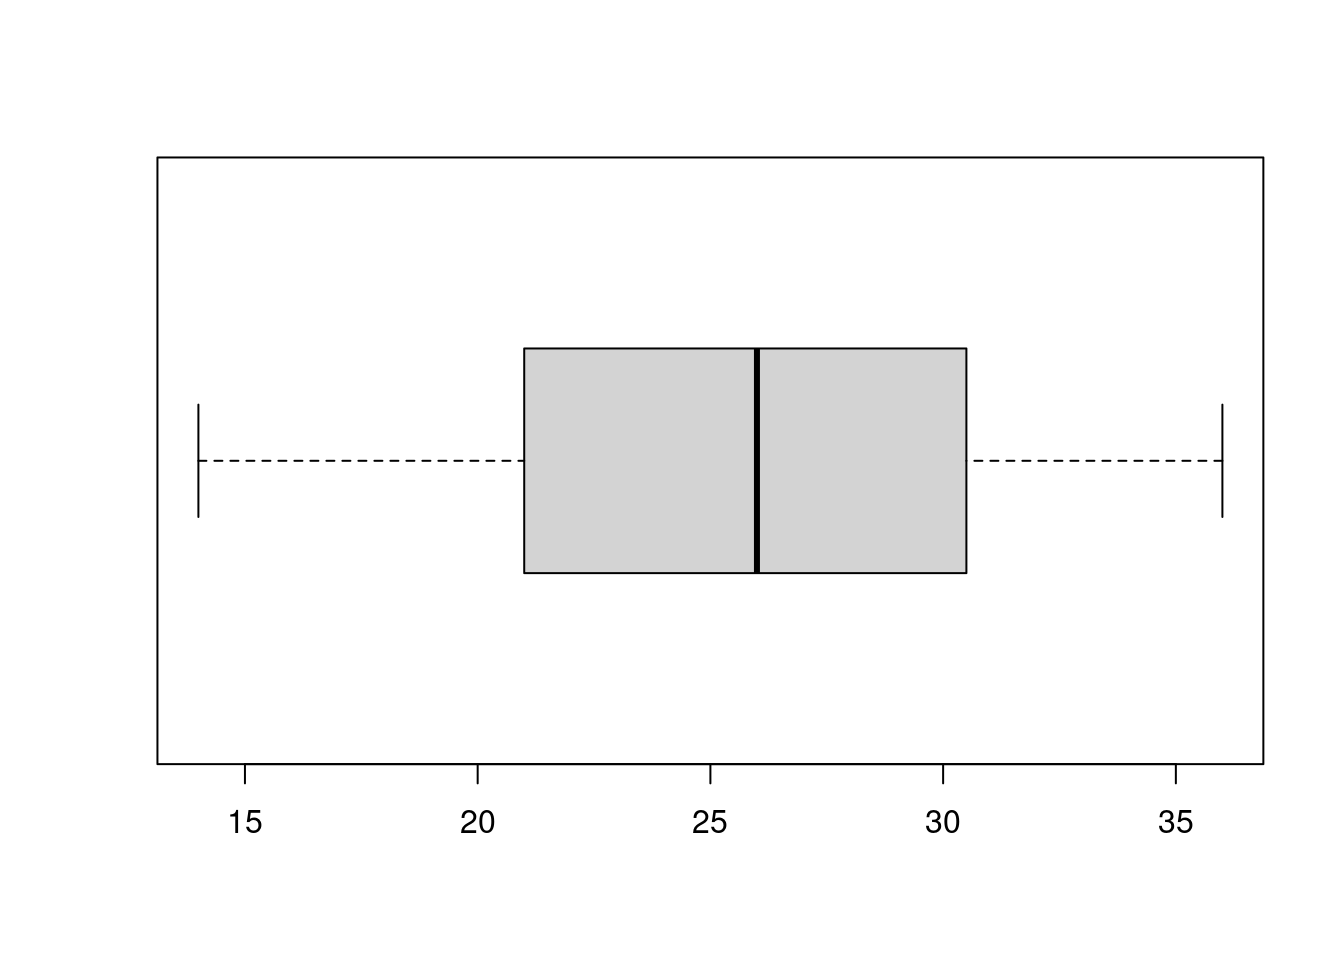
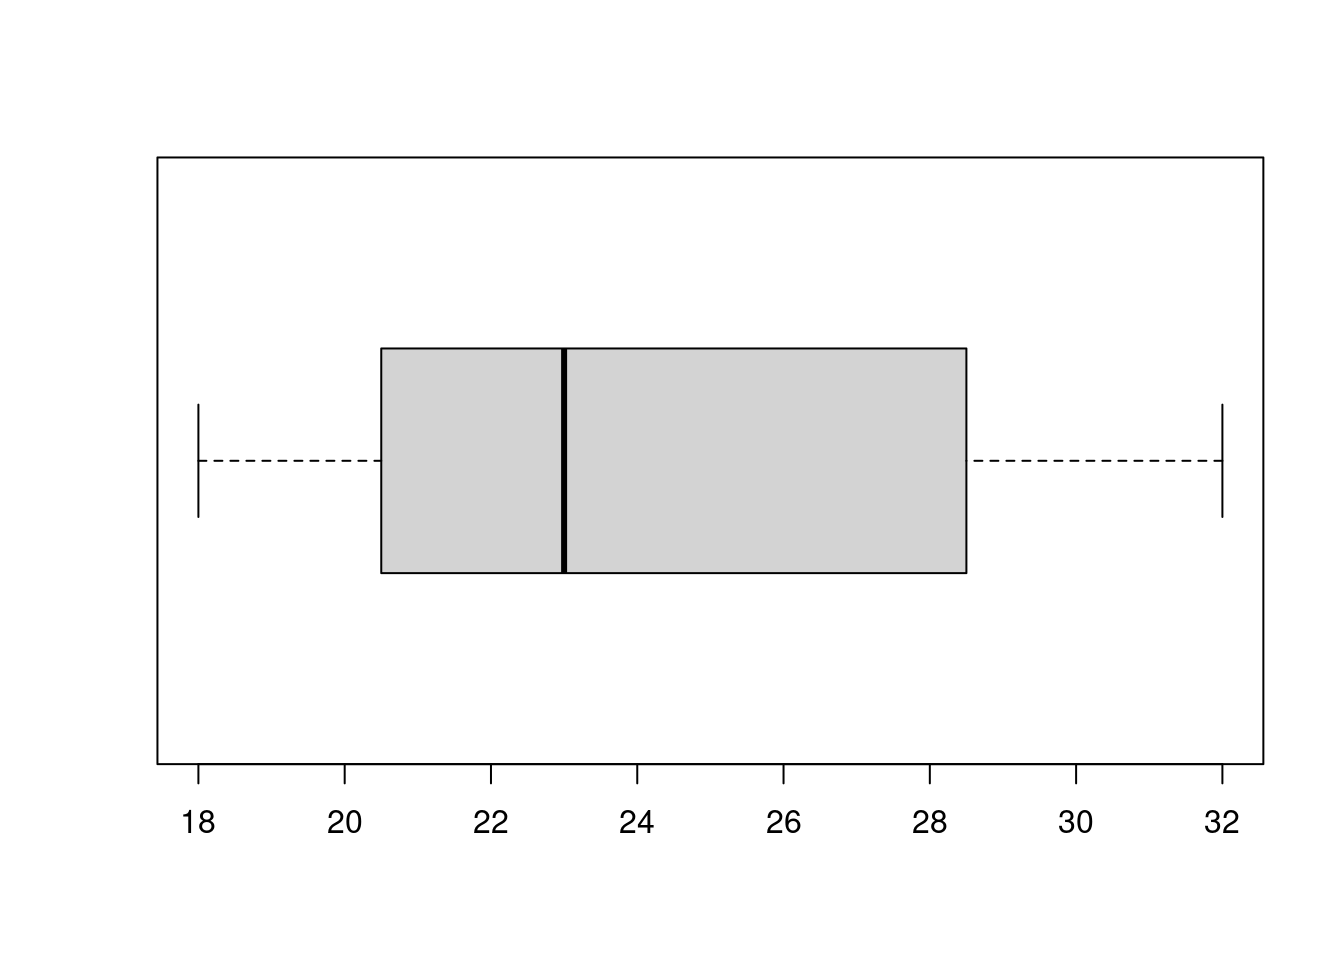
Updates to Chapter 3

diff --git a/_book/what-is-statistics.html b/_book/what-is-statistics.html
@@ -168,13 +168,17 @@ code span.wa { color: #60a0b0; font-weight: bold; font-style: italic; } /* Warni
 <li class="chapter" data-level="3.2.1" data-path="what-is-statistics.html"><a href="what-is-statistics.html#histograms"><i class="fa fa-check"></i><b>3.2.1</b> Histograms</a></li>
 <li class="chapter" data-level="3.2.2" data-path="what-is-statistics.html"><a href="what-is-statistics.html#boxplot"><i class="fa fa-check"></i><b>3.2.2</b> BoxPlot</a></li>
 </ul></li>
-<li class="chapter" data-level="3.3" data-path="what-is-statistics.html"><a href="what-is-statistics.html#numerical-versus-categorical-data"><i class="fa fa-check"></i><b>3.3</b> Numerical versus Categorical Data</a>
+<li class="chapter" data-level="3.3" data-path="what-is-statistics.html"><a href="what-is-statistics.html#categorical-data-example"><i class="fa fa-check"></i><b>3.3</b> Categorical Data Example</a>
 <ul>
-<li class="chapter" data-level="3.3.1" data-path="what-is-statistics.html"><a href="what-is-statistics.html#list-of-features"><i class="fa fa-check"></i><b>3.3.1</b> List of features</a></li>
-<li class="chapter" data-level="3.3.2" data-path="what-is-statistics.html"><a href="what-is-statistics.html#frequencies"><i class="fa fa-check"></i><b>3.3.2</b> Frequencies</a></li>
-<li class="chapter" data-level="3.3.3" data-path="what-is-statistics.html"><a href="what-is-statistics.html#proportions"><i class="fa fa-check"></i><b>3.3.3</b> Proportions</a></li>
-<li class="chapter" data-level="3.3.4" data-path="what-is-statistics.html"><a href="what-is-statistics.html#charts"><i class="fa fa-check"></i><b>3.3.4</b> Charts</a></li>
+<li class="chapter" data-level="3.3.1" data-path="what-is-statistics.html"><a href="what-is-statistics.html#grades-1"><i class="fa fa-check"></i><b>3.3.1</b> Grades</a></li>
+<li class="chapter" data-level="3.3.2" data-path="what-is-statistics.html"><a href="what-is-statistics.html#example-of-categorical-data"><i class="fa fa-check"></i><b>3.3.2</b> Example of Categorical Data</a></li>
+<li class="chapter" data-level="3.3.3" data-path="what-is-statistics.html"><a href="what-is-statistics.html#list-of-features"><i class="fa fa-check"></i><b>3.3.3</b> List of features</a></li>
+<li class="chapter" data-level="3.3.4" data-path="what-is-statistics.html"><a href="what-is-statistics.html#frequencies"><i class="fa fa-check"></i><b>3.3.4</b> Frequencies</a></li>
+<li class="chapter" data-level="3.3.5" data-path="what-is-statistics.html"><a href="what-is-statistics.html#proportions"><i class="fa fa-check"></i><b>3.3.5</b> Proportions</a></li>
+<li class="chapter" data-level="3.3.6" data-path="what-is-statistics.html"><a href="what-is-statistics.html#charts"><i class="fa fa-check"></i><b>3.3.6</b> Charts</a></li>
 </ul></li>
+<li class="chapter" data-level="3.4" data-path="what-is-statistics.html"><a href="what-is-statistics.html#exploratory-versus-confirmatory-analysis"><i class="fa fa-check"></i><b>3.4</b> Exploratory versus Confirmatory Analysis</a></li>
+<li class="chapter" data-level="3.5" data-path="what-is-statistics.html"><a href="what-is-statistics.html#correlations-and-predictions"><i class="fa fa-check"></i><b>3.5</b> Correlations and Predictions</a></li>
 </ul></li>
 </ul>
 
@@ -264,7 +268,7 @@ While I am collecting this data you can reflect on this funny musing. I grew up 
 <span id="cb3-5"><a href="what-is-statistics.html#cb3-5" aria-hidden="true" tabindex="-1"></a><span class="co"># students &lt;- {} </span></span>
 <span id="cb3-6"><a href="what-is-statistics.html#cb3-6" aria-hidden="true" tabindex="-1"></a></span>
 <span id="cb3-7"><a href="what-is-statistics.html#cb3-7" aria-hidden="true" tabindex="-1"></a>students</span></code></pre></div>
-<pre><code>##  [1] 31 26 19 21 34 14 30 19 26 33 25 21 36 27 14 31 26 23 29 24</code></pre>
+<pre><code>##  [1] 32 20 22 25 18 20 23 25 25 30 31 20 21 28 29 19 23 23 22 30</code></pre>
 <p><em>R Notes</em>: lists in R are enclosed in <em>curly braces</em> and each member of the list is separated by a <em>semi-colon</em> or a space; note I think leaving the space is bad practice and recommend not using that feature. In this case our list is a collection of integers. Lists can more generally be numbers or strings or even lists of lists.</p>
 <p>Comments in commands start with <em>hash symbols</em>.</p>
 <p>Another syntax note: R uses both = and &lt;- for assignment though they have slightly different meanings. They both work as you would expect, however &lt;- has some nice positives in the detailed differences and it is worth getting into the habit of using it.</p>
@@ -274,11 +278,11 @@ While I am collecting this data you can reflect on this funny musing. I grew up 
 <p>To get started we can use <em>summary</em> to get an overview of what our list of student enrollments look like. Review the meaning of each of these.</p>
 <div class="sourceCode" id="cb5"><pre class="sourceCode r"><code class="sourceCode r"><span id="cb5-1"><a href="what-is-statistics.html#cb5-1" aria-hidden="true" tabindex="-1"></a><span class="fu">summary</span>(students)</span></code></pre></div>
 <pre><code>##    Min. 1st Qu.  Median    Mean 3rd Qu.    Max. 
-##   14.00   21.00   26.00   25.45   30.25   36.00</code></pre>
+##   18.00   20.75   23.00   24.30   28.25   32.00</code></pre>
 <p>Mean and Median are <em>measures of center</em>, while the quartiles are <em>measures of spread</em>. One measure of spread missing is the variance or its square root standard deviation:</p>
 <div class="sourceCode" id="cb7"><pre class="sourceCode r"><code class="sourceCode r"><span id="cb7-1"><a href="what-is-statistics.html#cb7-1" aria-hidden="true" tabindex="-1"></a><span class="fu">var</span>(students); <span class="fu">sqrt</span>(<span class="fu">var</span>(students))</span></code></pre></div>
-<pre><code>## [1] 38.57632</code></pre>
-<pre><code>## [1] 6.210983</code></pre>
+<pre><code>## [1] 18.74737</code></pre>
+<pre><code>## [1] 4.329823</code></pre>
 <p>The variance is computed by taking the sum of the square differences between the data and the mean and then dividing that by number of items minus one; we will explain why this is what we divide by later in class:
 <span class="math display">\[ S = \frac{1}{n-1} \sum_{j=1}^n (y_j - \bar{y} )^2 \]</span> where <span class="math inline">\(\bar{y}\)</span> is the mean of the sample made up of the <span class="math inline">\(\{ y_1, y_2, \dots, y_n \}\)</span>.</p>
 <p>In the code blocks below I will add some comments about what we are doing:</p>
@@ -288,17 +292,16 @@ While I am collecting this data you can reflect on this funny musing. I grew up 
 <span id="cb10-4"><a href="what-is-statistics.html#cb10-4" aria-hidden="true" tabindex="-1"></a></span>
 <span id="cb10-5"><a href="what-is-statistics.html#cb10-5" aria-hidden="true" tabindex="-1"></a><span class="co"># R can then do the arithmetic and when we combine a list of numbers with a single number and square it, it knows what we mean.</span></span>
 <span id="cb10-6"><a href="what-is-statistics.html#cb10-6" aria-hidden="true" tabindex="-1"></a>(students <span class="sc">-</span> ybar)<span class="sc">^</span><span class="dv">2</span></span></code></pre></div>
-<pre><code>##  [1]  30.8025   0.3025  41.6025  19.8025  73.1025 131.1025  20.7025  41.6025
-##  [9]   0.3025  57.0025   0.2025  19.8025 111.3025   2.4025 131.1025  30.8025
-## [17]   0.3025   6.0025  12.6025   2.1025</code></pre>
+<pre><code>##  [1] 59.29 18.49  5.29  0.49 39.69 18.49  1.69  0.49  0.49 32.49 44.89 18.49
+## [13] 10.89 13.69 22.09 28.09  1.69  1.69  5.29 32.49</code></pre>
 <div class="sourceCode" id="cb12"><pre class="sourceCode r"><code class="sourceCode r"><span id="cb12-1"><a href="what-is-statistics.html#cb12-1" aria-hidden="true" tabindex="-1"></a><span class="co"># Then as we said, we sum over all of these and then divide by the number of them</span></span>
 <span id="cb12-2"><a href="what-is-statistics.html#cb12-2" aria-hidden="true" tabindex="-1"></a><span class="co"># minus 1</span></span>
 <span id="cb12-3"><a href="what-is-statistics.html#cb12-3" aria-hidden="true" tabindex="-1"></a></span>
 <span id="cb12-4"><a href="what-is-statistics.html#cb12-4" aria-hidden="true" tabindex="-1"></a><span class="fu">sum</span>( (students <span class="sc">-</span> ybar)<span class="sc">^</span><span class="dv">2</span> ) <span class="sc">/</span> ( <span class="fu">length</span>(students) <span class="sc">-</span> <span class="dv">1</span> )</span></code></pre></div>
-<pre><code>## [1] 38.57632</code></pre>
+<pre><code>## [1] 18.74737</code></pre>
 <p>Note why we compute variance in this way. We are trying to understand how far the data moves from the mean <span class="math inline">\(\bar{y}\)</span>. However we can’t just sum over the differences as that will just add up to zero:</p>
 <div class="sourceCode" id="cb14"><pre class="sourceCode r"><code class="sourceCode r"><span id="cb14-1"><a href="what-is-statistics.html#cb14-1" aria-hidden="true" tabindex="-1"></a><span class="fu">sum</span>(students <span class="sc">-</span> ybar )</span></code></pre></div>
-<pre><code>## [1] 1.421085e-14</code></pre>
+<pre><code>## [1] -1.421085e-14</code></pre>
 <p>We have choices though, we could sum over the absolute value and indeed that does give us a notion of spread. However the advantage of summing over the squares is that it brings in tools from Calculus that work with quadratic expressions but not with absolute value expressions. We then intend to take an average. For reasons we will justify later, it turns out the correct average to do is to divide by the size of our sample minus 1: <span class="math inline">\(n-1\)</span> is called the degrees of freedom (roughly computing <span class="math inline">\(\bar{y}\)</span> from the sample has used up one degree of freedom).</p>
 <p>Note the units on these two statistics: the variance is the average of the sum of the squares (by the number of degrees of freedom) so its units are the square of the units of our sample data (<em>students squared</em> in this case); and then the standard deviation is the square root of the variance and so has units of the original data (<em>students</em> in this case).</p>
 </div>
@@ -324,9 +327,16 @@ While I am collecting this data you can reflect on this funny musing. I grew up 
 <p>To interpret boxplots you should think in terms of quartiles: Half of the data is in the box. Half of the data is to either side of the median.</p>
 </div>
 </div>
-<div id="numerical-versus-categorical-data" class="section level2" number="3.3">
-<h2><span class="header-section-number">3.3</span> Numerical versus Categorical Data</h2>
-<p>The class sizes data is an example of <em>numerical data</em>. Another type of data used frequently is <em>categorical cata</em>:</p>
+<div id="categorical-data-example" class="section level2" number="3.3">
+<h2><span class="header-section-number">3.3</span> Categorical Data Example</h2>
+<p>The class sizes data is an example of <em>quantitative data</em> where the information is a numerical quantity that is a feature of the subject. Another type of data used frequently is <em>categorical data</em>, data that gives a description of a feature of the subject. We may sometimes represent categorical data with numbers - for example <em>Male</em> and <em>Female</em> in a data set might be represented with a 0 and a 1; however it would still be categorical describing a feature.</p>
+<p>There are different types of categorical data depending on the feature: the categories may have an ordering or not; if they have an ordering there may even be a notion of distance between them. It is important to think about what the descriptions for our category mean - If the categories do not have a natural order, or if there is no notion of distance between them, it might be misleading to represent them as numbers and then do computations with the numbers.</p>
+<div id="grades-1" class="section level3" number="3.3.1">
+<h3><span class="header-section-number">3.3.1</span> Grades</h3>
+<p>The example as teachers you should ponder are grades. What does A, B, C, D, F in a Math, English, History, and Physical Educaiton class mean? Is it valid to replace them with numbers for all of a students classes and compute Grade Point Averages from them? Is it ethical to report that number on a transcript and use it in hiring and admissions decisions?</p>
+</div>
+<div id="example-of-categorical-data" class="section level3" number="3.3.2">
+<h3><span class="header-section-number">3.3.2</span> Example of Categorical Data</h3>
 <p>Note if you are running this code, you will need to download the “Supermarket Transactions.xlsx” file from Github or here. We will also need to use the tidy package. You may need to install this package using <em>install.packages(“tidyverse”)</em>. Credit to UC Business Analytics R Programming Guide for this section, you can find the source here <a href="https://uc-r.github.io/descriptives_categorical" class="uri">https://uc-r.github.io/descriptives_categorical</a></p>
 <p>Then you will need to load the libraries:</p>
 <div class="sourceCode" id="cb19"><pre class="sourceCode r"><code class="sourceCode r"><span id="cb19-1"><a href="what-is-statistics.html#cb19-1" aria-hidden="true" tabindex="-1"></a><span class="fu">library</span>(readxl) <span class="co"># for reading Excel files</span></span>
@@ -352,8 +362,9 @@ While I am collecting this data you can reflect on this funny musing. I grew up 
 ## #   Product Category &lt;chr&gt;, Units Sold &lt;dbl&gt;, Revenue &lt;dbl&gt;</code></pre>
 <p>A couple of notes are in order here before we continue: Note that this data set is made up of samples (rows) each of which has 10 features (columns). Some of the features are numerical - <em>Units Sold</em> and <em>Revenue</em>, some could be converted into numerical units if we are careful <em>Annual Income</em>, while others are purely categorical giving us just a description of the value. Also note there is a factor that looks numerical but for which it would probably be misleading to treat it as such.</p>
 <p>You will notice the note that the data set has ~14,049 rows: We can only deal with such datasets using a computer program. Without too much work we could find datasets that are too big for Excell and need to be analyzed using a software like R or Python.</p>
-<div id="list-of-features" class="section level3" number="3.3.1">
-<h3><span class="header-section-number">3.3.1</span> List of features</h3>
+</div>
+<div id="list-of-features" class="section level3" number="3.3.3">
+<h3><span class="header-section-number">3.3.3</span> List of features</h3>
 <p>With a large data set it is helpful to list the the features we have:</p>
 <div class="sourceCode" id="cb22"><pre class="sourceCode r"><code class="sourceCode r"><span id="cb22-1"><a href="what-is-statistics.html#cb22-1" aria-hidden="true" tabindex="-1"></a><span class="fu">colnames</span>(supermarket)</span></code></pre></div>
 <pre><code>##  [1] &quot;Transaction&quot;        &quot;Purchase Date&quot;      &quot;Customer ID&quot;       
@@ -413,8 +424,8 @@ While I am collecting this data you can reflect on this funny musing. I grew up 
 ## [1] &quot;numeric&quot;</code></pre>
 <p>Note I say that these are guesses. Depending on the spreadsheet the data came from these may or may not be correct. In particular it is not uncommon for numerical data to be incorrectly types as <em>character</em> data. R is effecient at cleaning data, however it is a step further than we want to go in this class, just be aware if you or your students start using data sets from the web you will often come upon this issue.</p>
 </div>
-<div id="frequencies" class="section level3" number="3.3.2">
-<h3><span class="header-section-number">3.3.2</span> Frequencies</h3>
+<div id="frequencies" class="section level3" number="3.3.4">
+<h3><span class="header-section-number">3.3.4</span> Frequencies</h3>
 <p>We are going to make a contingency table for some of the features of this data. We can count how many members of the sample are in each category of a feature:</p>
 <div class="sourceCode" id="cb26"><pre class="sourceCode r"><code class="sourceCode r"><span id="cb26-1"><a href="what-is-statistics.html#cb26-1" aria-hidden="true" tabindex="-1"></a><span class="fu">table</span>(supermarket<span class="sc">$</span>Gender)</span></code></pre></div>
 <pre><code>## 
@@ -440,8 +451,8 @@ While I am collecting this data you can reflect on this funny musing. I grew up 
 ## S F   183  686  175      107      30  607      125 1134     164       357
 ##   M   239  717  242      105      25  631       89 1107     161       309</code></pre>
 </div>
-<div id="proportions" class="section level3" number="3.3.3">
-<h3><span class="header-section-number">3.3.3</span> Proportions</h3>
+<div id="proportions" class="section level3" number="3.3.5">
+<h3><span class="header-section-number">3.3.5</span> Proportions</h3>
 <p>Of course it is useful to think in terms of proportions of the data rather than the raw counts. We can do this by sending the result of a table command through the prop.table. Try it with one of the tables above:</p>
 <div class="sourceCode" id="cb32"><pre class="sourceCode r"><code class="sourceCode r"><span id="cb32-1"><a href="what-is-statistics.html#cb32-1" aria-hidden="true" tabindex="-1"></a>table2 <span class="ot">&lt;-</span> <span class="fu">table</span>(supermarket<span class="sc">$</span><span class="st">`</span><span class="at">Marital Status</span><span class="st">`</span>, supermarket<span class="sc">$</span>Gender);</span>
 <span id="cb32-2"><a href="what-is-statistics.html#cb32-2" aria-hidden="true" tabindex="-1"></a></span>
@@ -451,16 +462,25 @@ While I am collecting this data you can reflect on this funny musing. I grew up 
 ##   M 0.2562060 0.2321644
 ##   S 0.2537876 0.2578420</code></pre>
 </div>
-<div id="charts" class="section level3" number="3.3.4">
-<h3><span class="header-section-number">3.3.4</span> Charts</h3>
+<div id="charts" class="section level3" number="3.3.6">
+<h3><span class="header-section-number">3.3.6</span> Charts</h3>
 <p>Visualizations are straightforward, a typical one would be a bar chart indicating visually the frequency counts:</p>
 <div class="sourceCode" id="cb34"><pre class="sourceCode r"><code class="sourceCode r"><span id="cb34-1"><a href="what-is-statistics.html#cb34-1" aria-hidden="true" tabindex="-1"></a><span class="co"># Note in this one the direction of the quotes matter</span></span>
 <span id="cb34-2"><a href="what-is-statistics.html#cb34-2" aria-hidden="true" tabindex="-1"></a><span class="fu">ggplot</span>(supermarket) <span class="sc">+</span> <span class="fu">geom_bar</span>(<span class="at">mapping =</span> <span class="fu">aes</span>(<span class="at">x=</span><span class="st">`</span><span class="at">State or Province</span><span class="st">`</span>)) <span class="sc">+</span> </span>
 <span id="cb34-3"><a href="what-is-statistics.html#cb34-3" aria-hidden="true" tabindex="-1"></a>  <span class="fu">theme</span>(<span class="at">axis.text.x=</span><span class="fu">element_text</span>(<span class="at">angle=</span><span class="dv">45</span>, <span class="at">hjust=</span><span class="dv">1</span>))</span></code></pre></div>
 <p><img src="_main_files/figure-html/unnamed-chunk-19-1.png" width="672" /></p>
 <p>Note that the labels, colors, and positions can all be set via commands.</p>
-
 </div>
+</div>
+<div id="exploratory-versus-confirmatory-analysis" class="section level2" number="3.4">
+<h2><span class="header-section-number">3.4</span> Exploratory versus Confirmatory Analysis</h2>
+<p>We will spend time in this class doing two types of activity with data. <em>Exploratory Analysis</em> involves looking at a dataset trying to find patterns and relationships through the different features and combinations of those features. The goal in exploration is to develop hypothesis about the population the data is a sample of. <em>Confirmatory Analysis</em> seeks to use data to either confirm or deny a hypothesis - the primary question being asked is <em>Do we have sufficient evidence to support or reject this hypothesis?</em> The major difference is that confirmatory analysis rests upon mathematical models of the situation and then tests the sample against that model. The key difference is how frequently you use a member of the sample. You can use it once to test a hypothesis; but if you return to it again you are now doing an exploration.</p>
+<p>A big change in the field in the last two decades is that large datasets are becoming very common. With a large data set exploratory analysis can be very fruitful and provided you keep a portion of your data sequestered could even be combined with a confirmatory analysis.</p>
+</div>
+<div id="correlations-and-predictions" class="section level2" number="3.5">
+<h2><span class="header-section-number">3.5</span> Correlations and Predictions</h2>
+<p>One of our common goals</p>
+
 </div>
 </div>
             </section>
